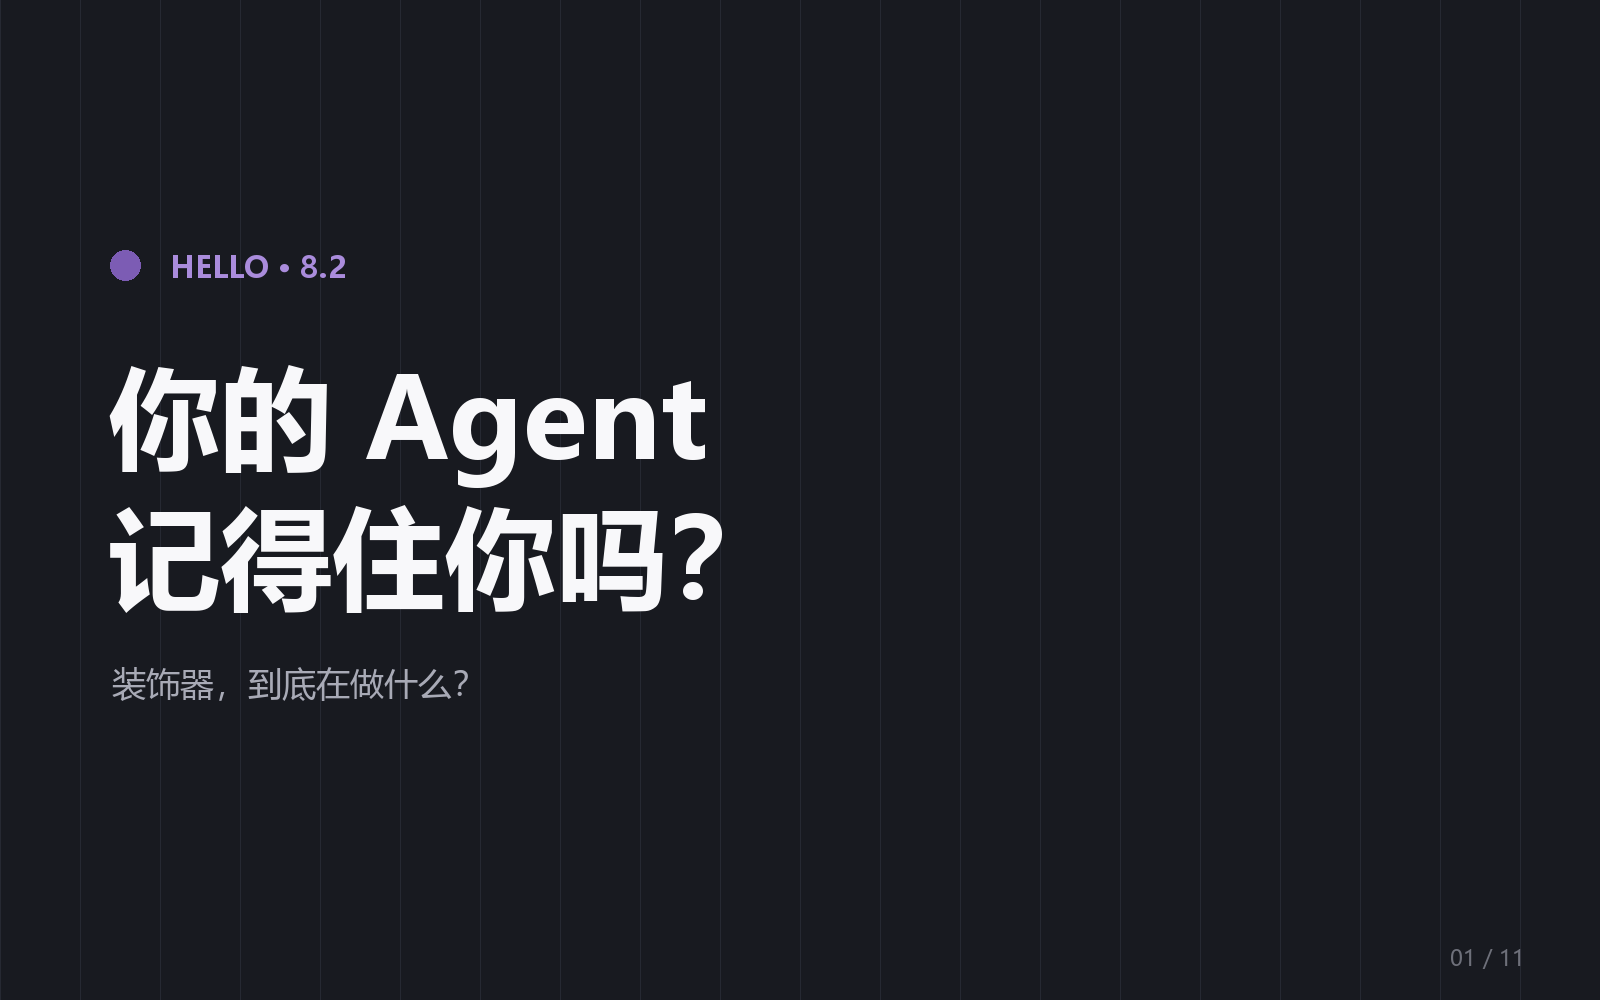
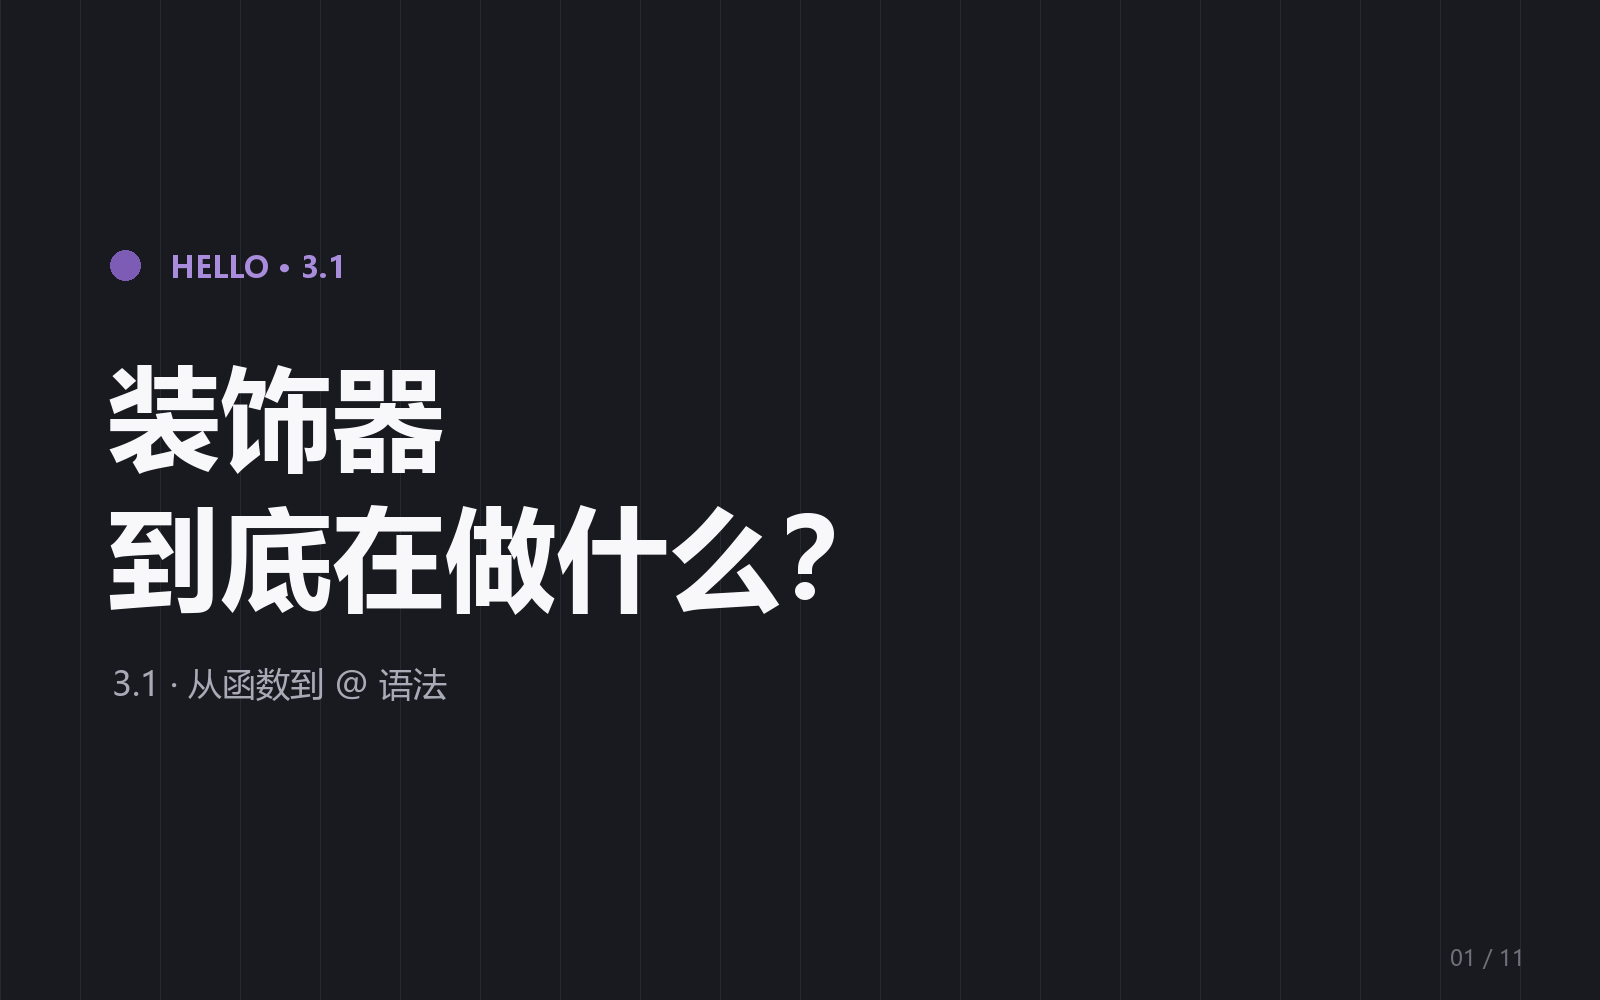
render: hook 支持自定义 line1/line2/label；示例改用装饰器文案

Changed region(s): [[0.0625, 0.341, 0.5312, 0.62], [0.0625, 0.651, 0.2812, 0.713], [0.1875, 0.248, 0.2188, 0.279]]

diff --git a/scripts/render.py b/scripts/render.py
@@ -61,11 +61,11 @@ def image_page(out,label,title,sub,src,maxw,maxh,idx,total):
                         fill=(255,255,255),outline=LINE,width=2)
     img.paste(im,(x,y)); footer(d,idx,total); img.save(out,quality=95)
 
-def hook_page(out,idx,total,line1="你的 Agent",line2="记得住你吗？",sub=""):
+def hook_page(out,idx,total,line1="你的 Agent",line2="记得住你吗？",sub="",label="HELLO · 8.2"):
     img=Image.new("RGB",(W,H),(24,26,32)); d=ImageDraw.Draw(img)
     for x in range(0,W,80): d.line([(x,0),(x,H)],fill=(38,41,50),width=1)
     d.ellipse([110,250,140,280],fill=PURPLE)
-    d.text((170,246),"HELLO · 8.2",font=fb(30),fill=(170,140,220))
+    d.text((170,246),label,font=fb(30),fill=(170,140,220))
     d.text((108,340),line1,font=fb(112),fill=(248,248,250))
     d.text((108,480),line2,font=fb(112),fill=(248,248,250))
     if sub: d.text((112,660),sub,font=fr(34),fill=(168,170,182))
@@ -97,7 +97,9 @@ def main():
     for s in S:
         i=s["idx"]; k=s["kind"]; fn=f"{i:02d}_{k}.png"
         if k=="hook":
-            hook_page(out/fn,i+1,total,sub=s.get("sub",""))
+            hook_page(out/fn,i+1,total,line1=s.get("line1","你的 Agent"),
+                      line2=s.get("line2","记得住你吗？"),sub=s.get("sub",""),
+                      label=s.get("label","HELLO · 8.2"))
         elif k=="title":
             title_page(out/fn,i+1,total,items=s.get("items",()))
         elif k=="end":

diff --git a/examples/fill_scenes.py b/examples/fill_scenes.py
@@ -13,7 +13,7 @@ P = ROOT / "scenes.json"
 S = json.loads(P.read_text(encoding="utf-8"))
 
 FILL = {
-    0: dict(sub="装饰器，到底在做什么？"),
+    0: dict(line1="装饰器", line2="到底在做什么？", sub="3.1 · 从函数到 @ 语法", label="HELLO · 3.1"),
     1: dict(
         label="3.1.1",
         title="装饰器就是一个普通函数",
